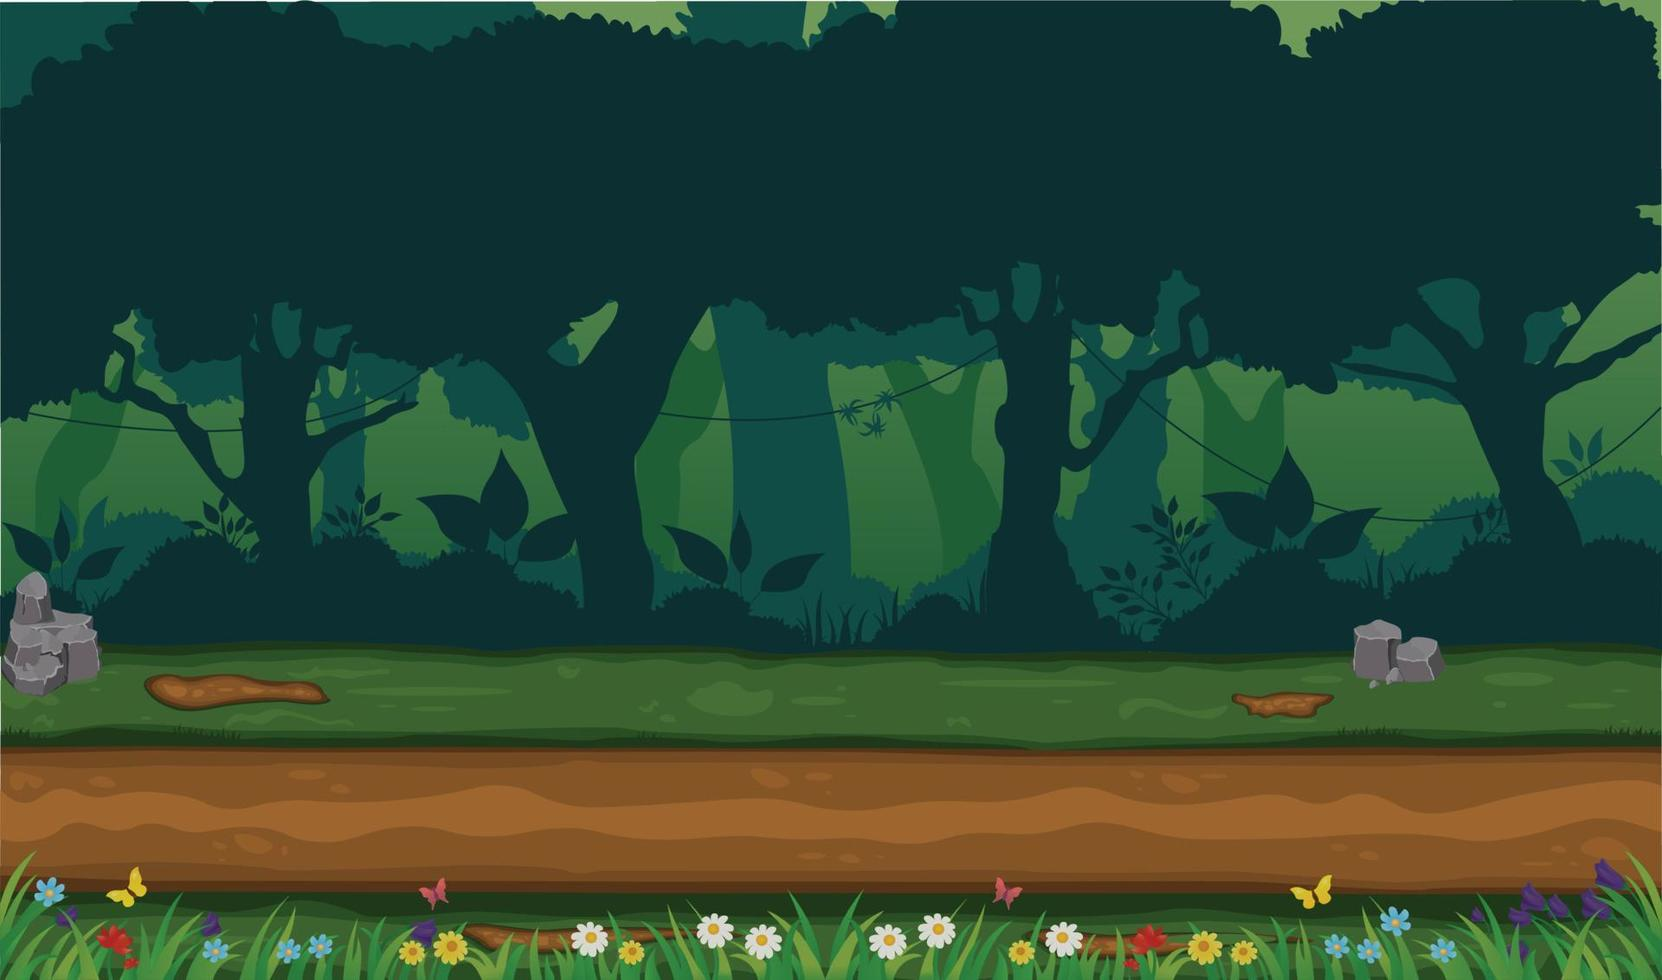
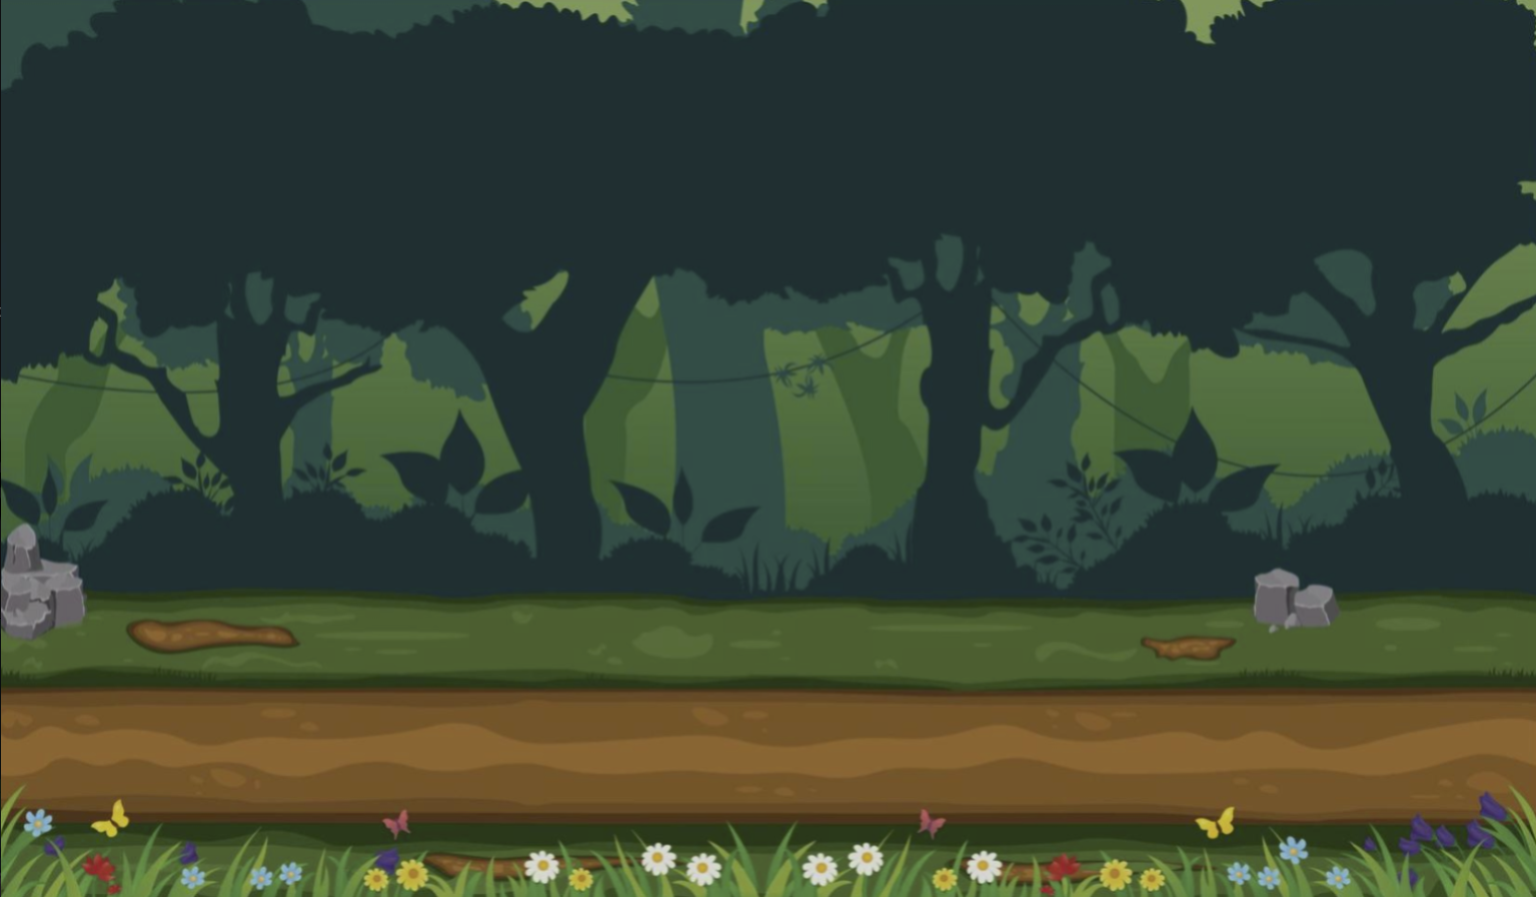
Adjust background and bold some text

diff --git a/src/game.py b/src/game.py
@@ -41,6 +41,7 @@ class Game:
 
 
     def __render_player_inventory(self) -> None:
+        self.font.set_bold(True)
         text_surface = self.font.render(f"DAY: {self.day}", True, WHITE)
         self.screen.blit(text_surface, (10, 10))
         food_color = WHITE if self.player.food > 5 else (ORANGE if 3 <= self.player.food <= 5 else RED)
@@ -49,3 +50,4 @@ class Game:
         water_color = WHITE if self.player.water > 5 else (ORANGE if 3 <= self.player.food <= 5 else RED)
         text_surface = self.font.render(f"WATER: {self.player.water}", True, water_color)
         self.screen.blit(text_surface, (10, 90))
+        self.font.set_bold(False)
